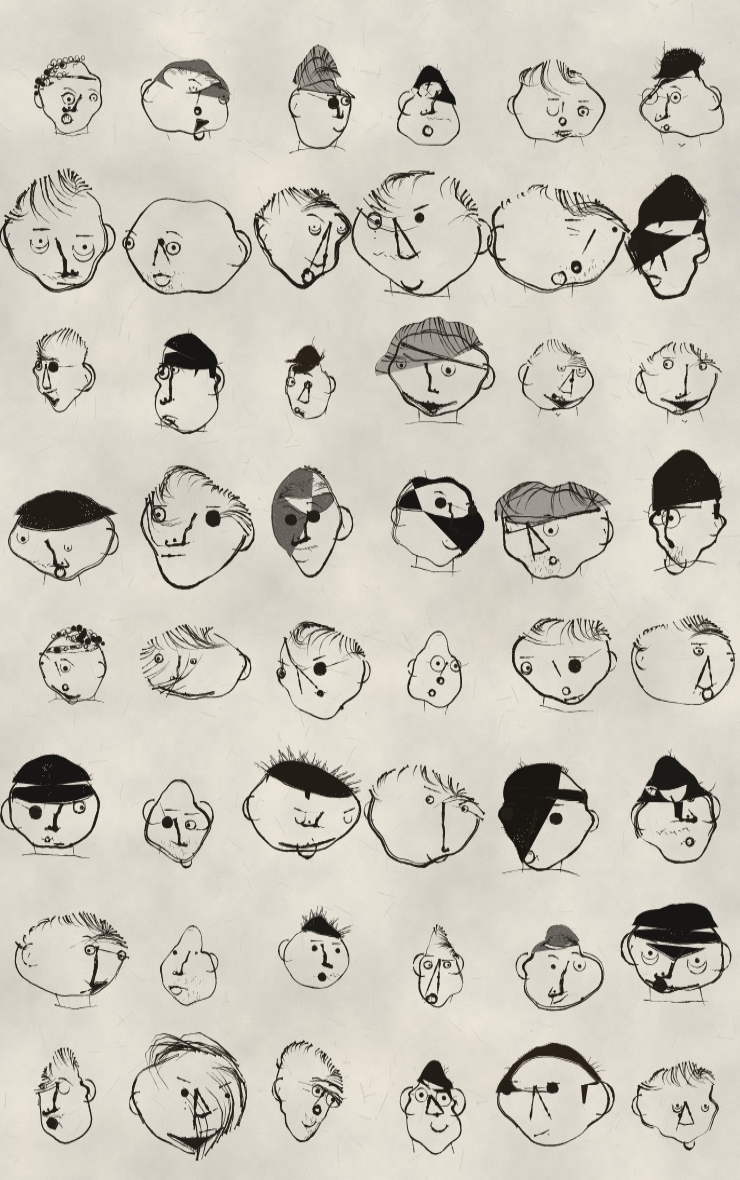
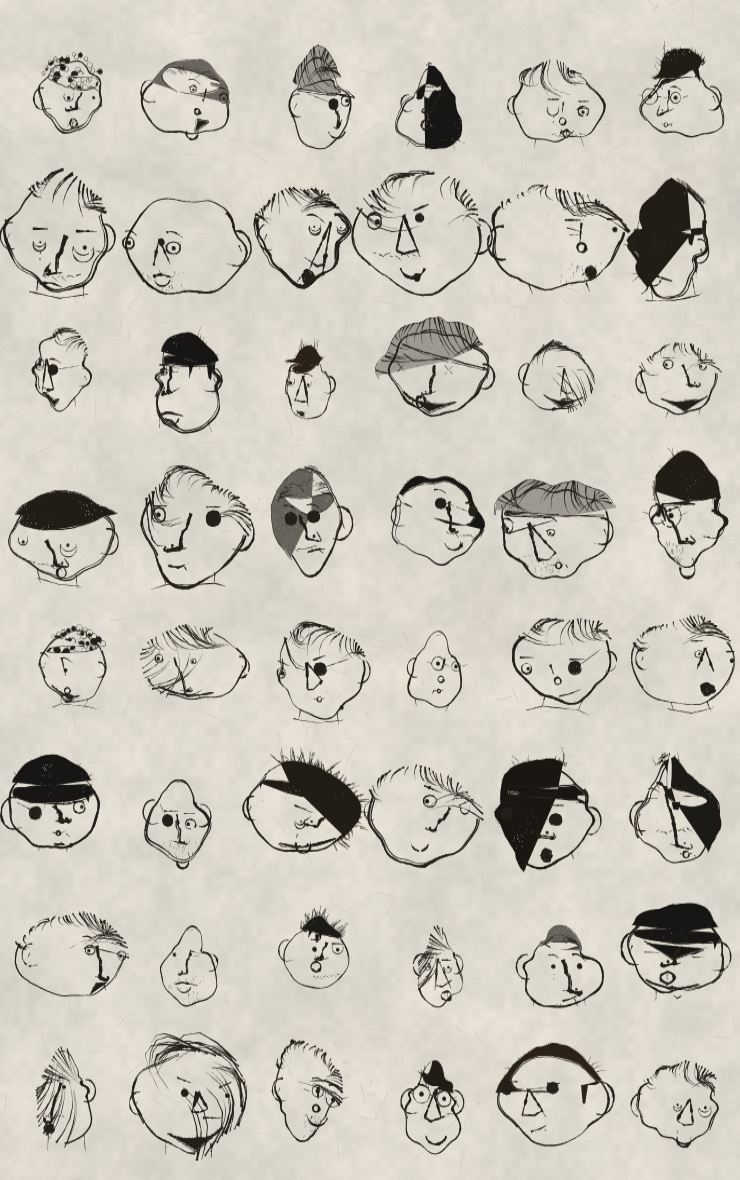
Gauntlet: kill the armature pivots, place the name against the figure
- A critic called the black dots at every shoulder, elbow and wrist
  armature pivots. Checked at 6x first: true. The nib pools where a
  stroke turns hard, which is right for a corner, but a limb outline
  closes on a 180 reversal at the shoulder and was blotting there every
  time. Pooling now fires only below ~1.2 rad; past that the pen is going
  round an end, not stopping into a join. Both ends of a limb are rounded
  so there is no reversal left to pool at.
- The body reports how far it actually reaches, and the name is placed
  against that instead of a guessed offset from the head, dropping under
  the feet when the margin is too tight.
- Hands are half again as large and no longer close into a ring.
- Paper rebalanced by measurement, not by eye: matching his tooth (3.79)
  had left our mottle 26% over his (3.17 vs 2.51), which is what read as
  blotchy. Three octaves reweighted rather than one amplitude cut - now
  3.67 tooth and 2.51 mottle.

Claude-Session: https://claude.ai/code/session_01RJWY9ufwnD6fjwW6ve4one

diff --git a/dude.js b/dude.js
@@ -175,7 +175,10 @@
       while (ang > Math.PI) ang -= Math.PI * 2;
       while (ang < -Math.PI) ang += Math.PI * 2;
       const turn = Math.abs(ang);
-      if (turn > 0.35) press *= 1 + Math.min(0.7, (turn - 0.35) * 1.1); // ink pools in the corner
+      // ink pools in a corner, but only a real corner: past about 1.2 rad the
+      // pen is travelling round an end, not stopping into a join, and a blob
+      // there reads as an armature pivot bolted to the drawing
+      if (turn > 0.35 && turn < 1.25) press *= 1 + Math.min(0.55, (turn - 0.35) * 0.95);
       if (opt.taper !== undefined) press *= 1 + (opt.taper - 1) * Math.pow(t01, opt.taperPow ?? 1.4);
       W[i] = Math.max(0.26, w * Math.min(2.6, Math.max(0.08, press)));
       // the nib lifts rarely and briefly; a dashed line is a broken pen,
@@ -571,9 +574,9 @@
           // tooth: without this the ground reads as a flat digital field, and
           // that alone gives the sheet away next to a photographed one.
           const m =
-            (valueNoise(x * 0.011, y * 0.011, 9001) - 0.5) * 2 +
-            (valueNoise(x * 0.037, y * 0.037, 9109) - 0.5) * 1.1 +
-            (valueNoise(x * 0.13, y * 0.13, 9227) - 0.5) * 0.5;
+            (valueNoise(x * 0.011, y * 0.011, 9001) - 0.5) * 1.15 +
+            (valueNoise(x * 0.037, y * 0.037, 9109) - 0.5) * 1.2 +
+            (valueNoise(x * 0.13, y * 0.13, 9227) - 0.5) * 1.05;
           const v = m * 9.2 + (u - 0.5) * 5.2;
           d[p] = Math.max(0, Math.min(255, r + v));
           d[p + 1] = Math.max(0, Math.min(255, g + v * 0.94));
@@ -1904,7 +1907,7 @@
     dy /= d;
     const nx = -dy;
     const ny = dx;
-    const pr = r * rng.f(1.05, 1.4);
+    const pr = r * rng.f(1.45, 2.0);
     const c0 = { x: tip.x + dx * pr * 0.5, y: tip.y + dy * pr * 0.5 };
     const pts = [];
     const nF = rng.i(3, 4);
@@ -1919,7 +1922,7 @@
     }
     inkPoly(c, rng, [{ x: tip.x - nx * r * side, y: tip.y - ny * r }].concat(pts).concat([
       { x: tip.x + nx * r * side, y: tip.y + ny * r },
-    ]), { w: s * 0.026, dry: 0.7, wobble: s * 0.02 });
+    ]), { w: s * 0.026, dry: 0.9, wobble: s * 0.025 });
     // knuckle ticks instead of drawn fingers
     for (let i = 1; i < nF; i++) {
       if (rng.chance(0.4)) continue;
@@ -2090,7 +2093,10 @@
     const armShape = (S, sd) => {
       const a = edgeOf(S, armR, -1, sd);
       const b = edgeOf(S, armR, 1, sd + 13);
-      return a.concat(round(S, armR(1))).concat(b.reverse());
+      // round both ends: an arm that closes on a hard reversal at the
+      // shoulder gets a blot there every time
+      const shoulderCap = round(S.slice().reverse(), armR(0)).reverse();
+      return a.concat(round(S, armR(1))).concat(b.reverse()).concat(shoulderCap);
     };
     const Larm = armShape(LaS, 11);
     const Rarm = armShape(RaS, 83);
@@ -2270,7 +2276,13 @@
     inkMassFill(c, rng, Lfoot, INK, { bite: s * 0.04 });
     inkMassFill(c, rng, Rfoot, INK, { bite: s * 0.04 });
 
-    return { hipY, footY };
+    let maxX = -Infinity;
+    let minX = Infinity;
+    for (const q of core.concat(Larm, Rarm)) {
+      if (q.x > maxX) maxX = q.x;
+      if (q.x < minX) minX = q.x;
+    }
+    return { hipY, footY, maxX, minX };
   }
 
   // ---------- handwritten name ----------
@@ -2626,10 +2638,10 @@
       nameX = cx + s * rng.f(-1.4, 0.5);
       nameY = Math.min(h - size * 1.5, body.footY + s * rng.f(0.3, 0.75));
     } else if (spot === "shoulder") {
-      nameX = cx + s * rng.f(1.5, 1.85);
+      nameX = Math.max(body.maxX + s * rng.f(0.14, 0.4), cx + s * 1.35);
       nameY = cy + s * rng.f(1.6, 2.4);
     } else {
-      nameX = cx + s * rng.f(1.2, 1.5);
+      nameX = Math.max(body.maxX + s * rng.f(0.1, 0.32), cx + s * 1.15);
       nameY = cy + s * rng.f(0.0, 0.55);
     }
     const nameW = size * (String(dude.name).length * 0.92 + 0.6);

diff --git a/progress.html b/progress.html
@@ -119,6 +119,22 @@
   <h3>“A flat digital-cream ground with no paper texture at all.”</h3>
   <p>The one tell that survives the fact that his plates are compressed photographs and ours are lossless renders — so it was worth taking seriously. The ground now carries two octaves of slow mottle plus a fine tooth, tuned by measurement rather than by eye: a bare patch of our sheet has a standard deviation of 3.84 against 3.79 for a bare patch of his.</p>
 
+  <h3>“Black dots sit at every shoulder, elbow and wrist. Those are armature pivots.”</h3>
+  <p>Checked at 6× before touching it, and true. The nib pools where a stroke turns hard — which is right for a corner, but an arm outline closes on a 180° reversal at the shoulder, and it was blotting there every time. Pooling now only fires below about 1.2 radians, past which the pen is travelling round an end rather than stopping into a join, and both ends of a limb are rounded so there is no reversal to pool at.</p>
+
+  <h3>“The name collides with the figure.”</h3>
+  <p>It was placed at a guessed offset from the head. The body now reports how far it actually reaches and the name is placed against that, dropping under the feet when the margin is too tight.</p>
+
+  <h3>Measuring the paper instead of eyeballing it</h3>
+  <p>Matching a texture by eye is how the last three attempts at this went wrong. A bare patch of his sheet and a bare patch of ours, compared at two scales — raw pixel spread for the tooth, and the spread of a 9px blur for the mottle:</p>
+  <table style="border-collapse:collapse;font-size:14px;margin:8px 0 4px">
+    <tr><th style="text-align:left;padding:3px 18px 3px 0"></th><th style="text-align:right;padding:3px 18px 3px 0">tooth</th><th style="text-align:right;padding:3px 0">mottle</th></tr>
+    <tr><td style="padding:3px 18px 3px 0">Mannay</td><td style="text-align:right;padding:3px 18px 3px 0">3.79</td><td style="text-align:right">2.51</td></tr>
+    <tr><td style="padding:3px 18px 3px 0">ours, first try</td><td style="text-align:right;padding:3px 18px 3px 0">3.84</td><td style="text-align:right">3.17</td></tr>
+    <tr><td style="padding:3px 18px 3px 0">ours, rebalanced</td><td style="text-align:right;padding:3px 18px 3px 0">3.67</td><td style="text-align:right">2.51</td></tr>
+  </table>
+  <p>The first attempt matched on tooth and was 26% over on mottle — which is exactly what "blotchy" looks like. Three octaves rebalanced rather than one amplitude turned down.</p>
+
   <h2>Still open</h2>
   <ul>
     <li>Every round, the critics still identify our sheets and still rank both Mannay plates above them. The gap has narrowed — one round put ours above one of his — but he has not been beaten.</li>
